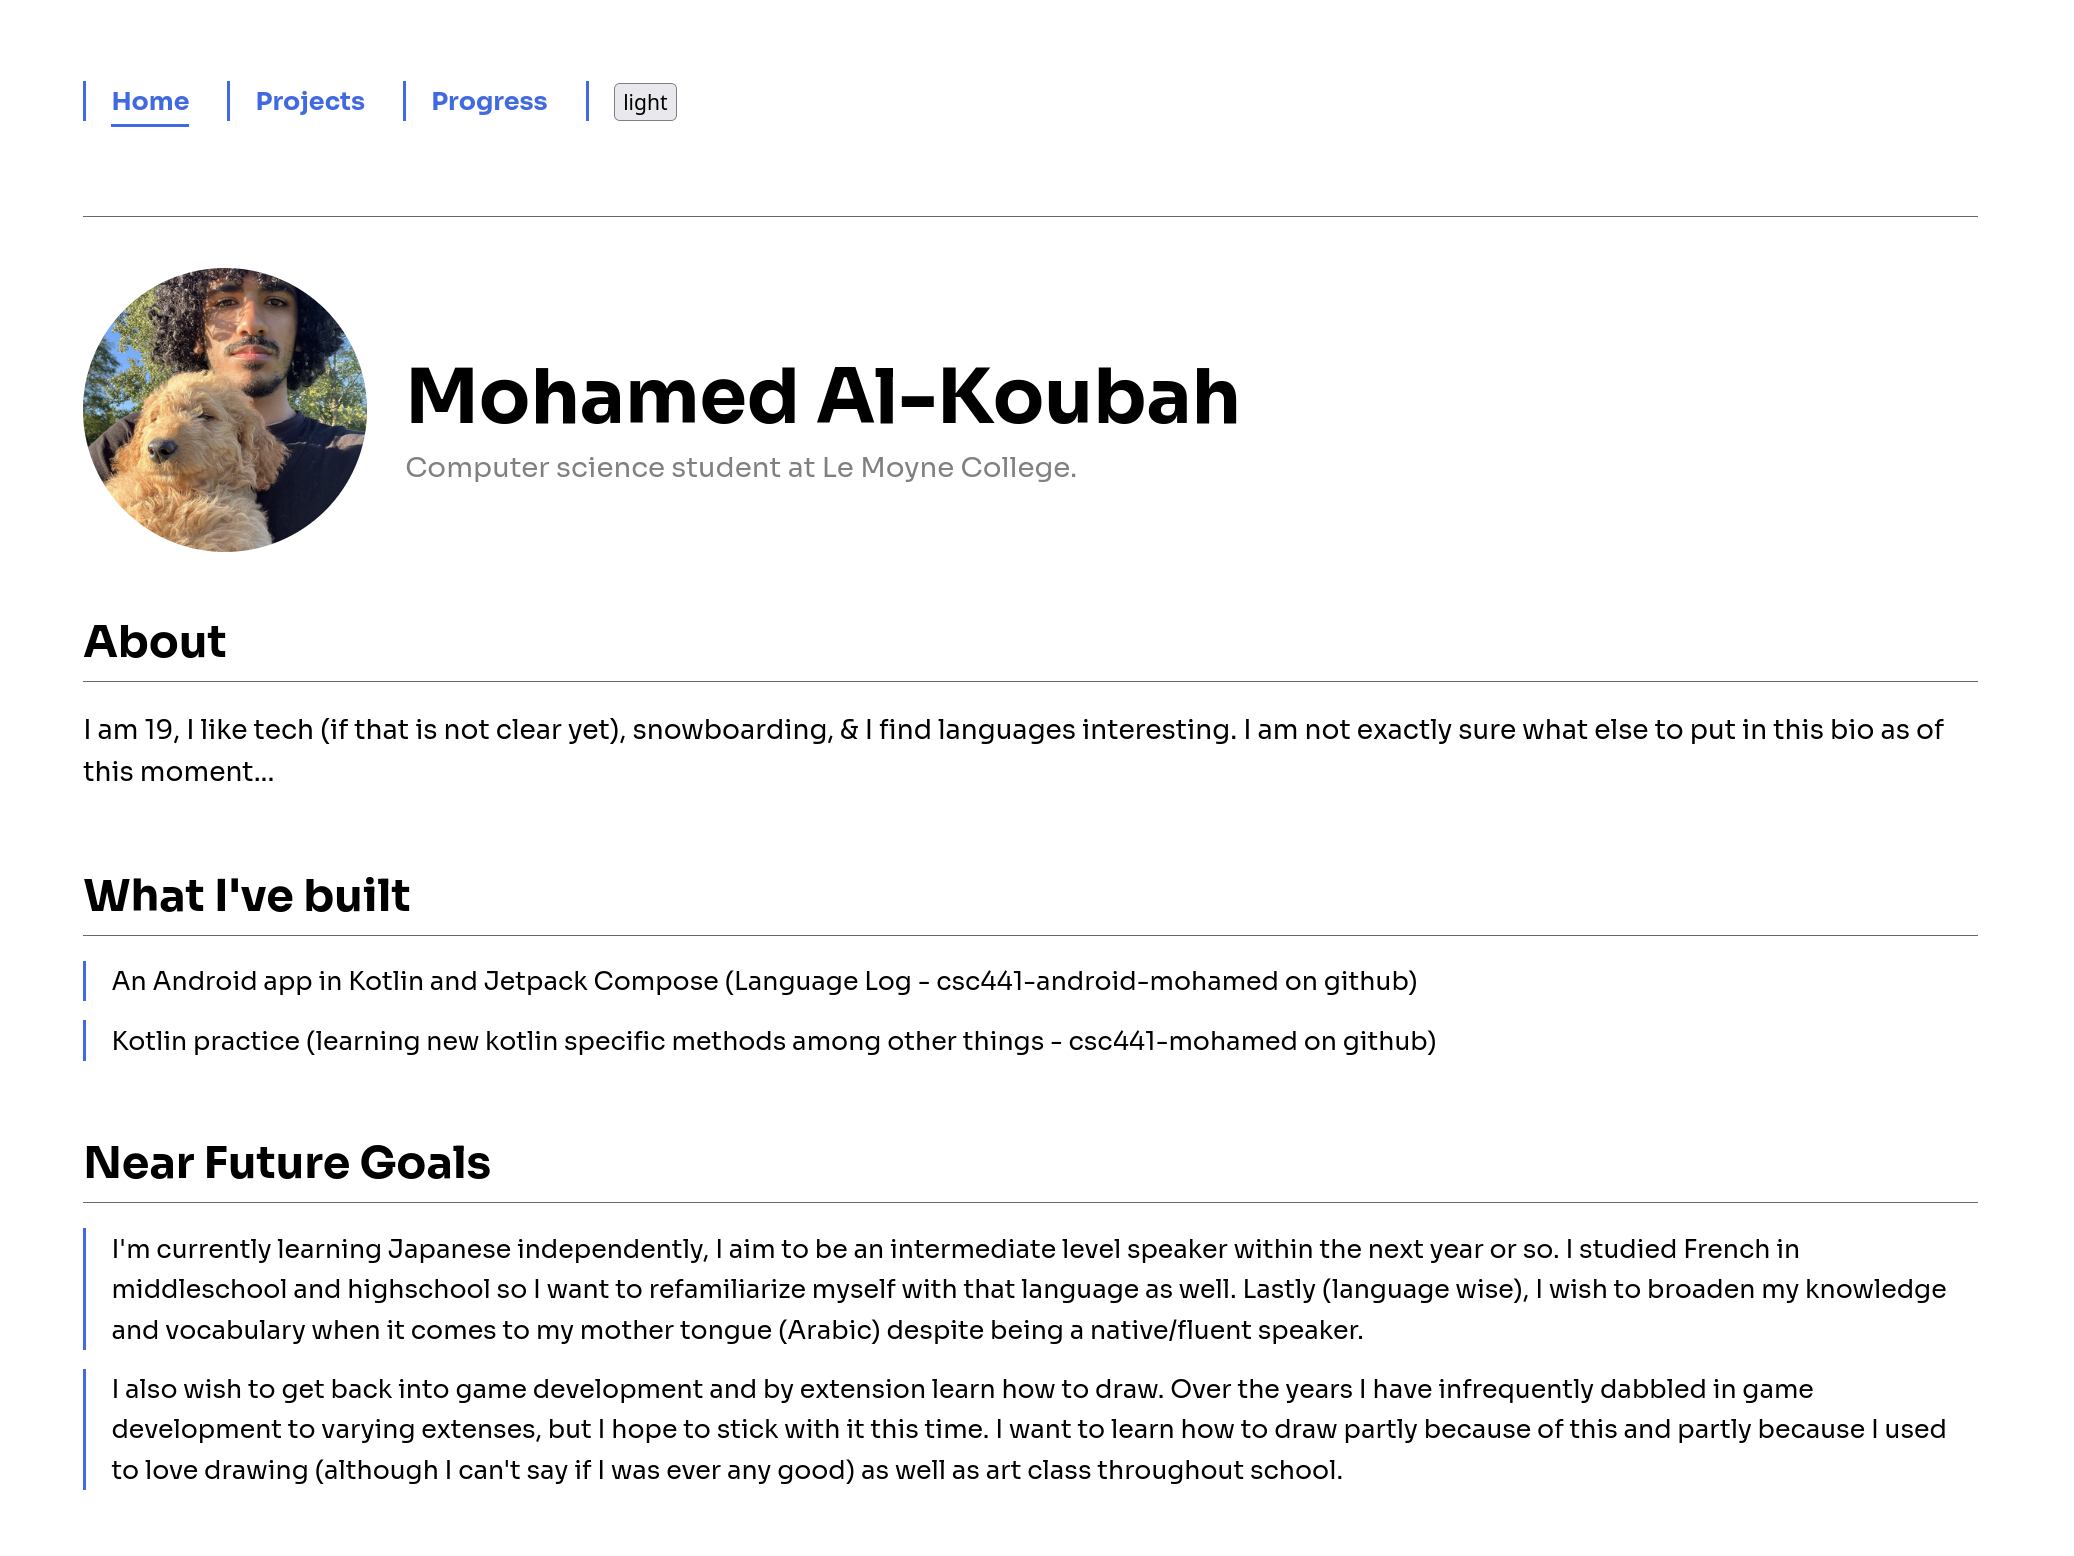
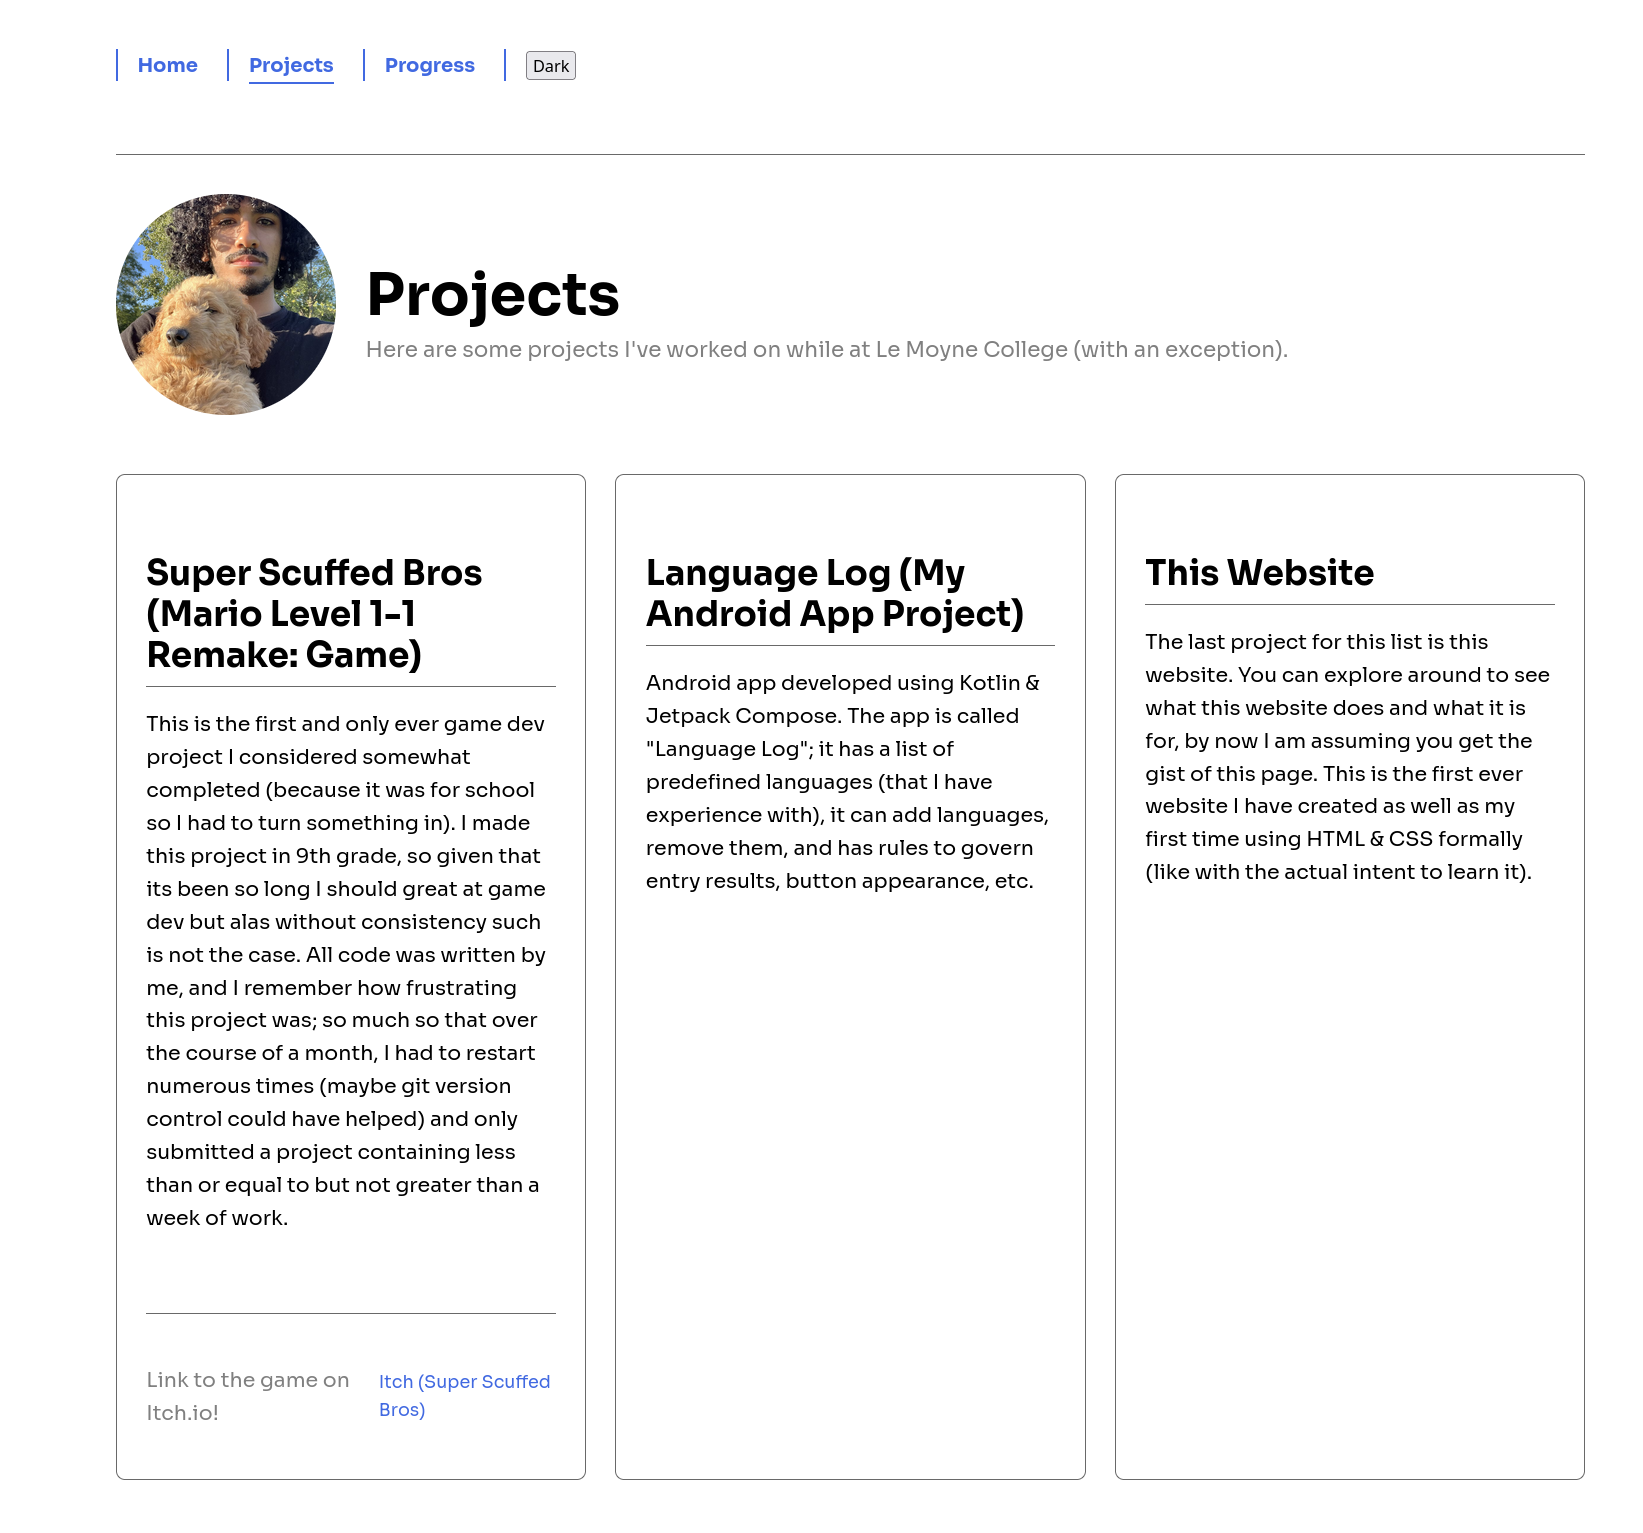
Lab 15 done

diff --git a/projects.html b/projects.html
@@ -6,20 +6,26 @@
          <!-- Class 13 - Step 1: my second page -->
          <title>Projects - Mohamed Al-Koubah</title>
 
+         <!-- Lab 15 - Step 5: one more thing that reacts (dynamic greeting!) -->
+         <span id="greeting"></span> 
+
 
          <!-- Class 12 · Step 1: a typeface I chose -->
          <link rel="preconnect" href="https://fonts.googleapis.com">
          <link rel="preconnect" href="https://fonts.gstatic.com" crossorigin>
          <link href="https://fonts.googleapis.com/css2?family=Sora:wght@100..800&display=swap" rel="stylesheet">
          <link rel="stylesheet" href="styles.css">
+         <!-- Lab 15 · Task 1: my third file -->
+         <script src="script.js" defer></script>
     </head>
     <body>
         <!-- Class 13 - Step 2: navigation -->
          <nav>
             <ul>
-                <li><a href="index.html">Home</a></li>
-                <li><a href="projects.html" class = "current">Projects</a></li>
-                <li><a href="progress.html">Progress</a></li>
+               <li><a href="index.html">Home</a></li>
+               <li><a href="projects.html" class = "current">Projects</a></li>
+               <li><a href="progress.html">Progress</a></li>
+               <li><button id="theme-toggle" type="button">light</button></li>
             </ul>
          </nav>
          <!-- Class 11: Step 2: the page content -->
@@ -57,7 +63,7 @@
          
          <!-- Lab 12 · Task 3: two things in the footer -->
          <footer>
-            <p>© 2026 Mohamed Al-Koubah</p>
+            <p>© <span id="year"></span> Mohamed Al-Koubah</p>
             <!-- Lab 11 · Task 3: a link off my page -->
             <a href="https://github.com/kobadevv" target="_blank" rel="noopener">GitHub</a>
          </footer>

diff --git a/script.js b/script.js
@@ -1,13 +1,42 @@
-// CLass 15 - Step 1: this file is running
+// Class 15 - Step 1: this file is running
 console.log("script.js is running");
 
 // Class 15 - Step 2: put this year in the footer
 const yearSpan = document.querySelector("#year");
-yearSpan.textContent = new Date().getFullYear();
+if (yearSpan) {
+    yearSpan.textContent = new Date().getFullYear();
+}
 
 // Class 15 - Step 3: a button that changes the page
 const themeButton = document.querySelector("#theme-toggle");
+if (themeButton) {
+    // Lab 15 · Task 4: use the saved choice on arrival
+    if (localStorage.getItem("theme") === "light") {
+        document.body.classList.add("light");
+        themeButton.textContent = "Dark";
+    }
+    // Lab 15 · Task 3: the button says what it will do
+    themeButton.addEventListener("click", function () {
+        document.body.classList.toggle("light");
+        if (document.body.classList.contains("light")) {
+            themeButton.textContent = "Dark";
+            localStorage.setItem("theme", "light");
+        } else {
+            themeButton.textContent = "Light";
+            localStorage.setItem("theme", "dark");
+        }
+    });
+}
 
-themeButton.addEventListener("click", function ()  {
-    document.body.classList.toggle("light");
-});
+// Lab 15 - Step 5: one more thing that reacts (dynamic greeting!)
+const currTime = new Date().getHours();
+
+const greeting = document.getElementById("greeting");
+
+if (currentHour < 12) {
+    greeting.textContent = "Good Morning!";
+} else if (currentHour < 18) {
+    greeting.textContent = "Good Afternoon!";
+} else {
+    greeting.textContent = "Good Evening!";
+}

diff --git a/progress.html b/progress.html
@@ -6,11 +6,16 @@
          <!-- Lab 13 - Step 2: my third page -->
          <title>Projects - Mohamed Al-Koubah</title>
 
+         <!-- Lab 15 - Step 5: one more thing that reacts (dynamic greeting!) -->
+         <span id="greeting"></span> 
+
          <!-- Class 12 · Step 1: a typeface I chose -->
          <link rel="preconnect" href="https://fonts.googleapis.com">
          <link rel="preconnect" href="https://fonts.gstatic.com" crossorigin>
          <link href="https://fonts.googleapis.com/css2?family=Sora:wght@100..800&display=swap" rel="stylesheet">
          <link rel="stylesheet" href="styles.css">
+         <!-- Lab 15 · Task 1: my third file -->
+        <script src="script.js" defer></script>
     </head>
     <body>
        <!-- Class 13 - Step 2: navigation -->
@@ -19,6 +24,7 @@
                 <li><a href="index.html">Home</a></li>
                 <li><a href="projects.html">Projects</a></li>
                 <li><a href="progress.html" class = "current">Progress</a></li>
+                <li><button id="theme-toggle" type="button">light</button></li>
             </ul>
          </nav>
          <!-- Class 11: Step 2: the page content -->
@@ -70,7 +76,7 @@
          
          <!-- Lab 12 · Task 3: two things in the footer -->
          <footer>
-            <p>© 2026 Mohamed Al-Koubah</p>
+            <p>© <span id="year"></span> Mohamed Al-Koubah</p>
             <!-- Lab 11 · Task 3: a link off my page -->
             <a href="https://github.com/kobadevv" target="_blank" rel="noopener">GitHub</a>
          </footer>

diff --git a/index.html b/index.html
@@ -1,10 +1,14 @@
 <!DOCTYPE html>
 <html lang = "en">
-   
+   <!-- new Date().getHours() and an if, writing "Good morning" or
+"Good evening" into a <span> in your header -->
     <head>
          <meta charset="UTF-8">
          <meta name="viewport" content="width=device-width, initial-scale=1.0">
          <title>Mohamed Al-Koubah</title>
+
+         <!-- Lab 15 - Step 5: one more thing that reacts (dynamic greeting!) -->
+         <span id="greeting"></span> 
 
          <!-- Class 12 · Step 1: a typeface I chose -->
          <link rel="preconnect" href="https://fonts.googleapis.com">
@@ -21,11 +25,11 @@
        <!-- Class 13 - Step 2: navigation -->
          <nav>
             <ul>
-                <li><a href="index.html" class = "current">Home</a></li>
-                <li><a href="projects.html">Projects</a></li>
-                <li><a href="progress.html">Progress</a></li>
-                <!-- Class 15 - Step 3: the theme button -->
-                 <li><button id="theme-toggle" type="button">light</button></li>
+               <li><a href="index.html" class = "current">Home</a></li>
+               <li><a href="projects.html">Projects</a></li>
+               <li><a href="progress.html">Progress</a></li>
+               <!-- Class 15 - Step 3: the theme button -->
+               <li><button id="theme-toggle" type="button">light</button></li>
             </ul>
          </nav>
          <!-- Class 11: Step 2: the page content -->

diff --git a/NOTES.md b/NOTES.md
@@ -34,3 +34,27 @@ justify-content moves things along the main axis (horizontally by default) while
 hold the wide one, instead of the other way round?
 
 - This is by design as a mobile first or catered toward approach.
+
+## Week 10, Wednesday
+1. In your own words: what is the difference between HTML, CSS and
+JavaScript? One sentence each.
+
+- HTML is a markup language, it is not a programming language, it does compile code but rather from a set of rules displays them. CSS is a styling language and also not a programming language, it is used in conjunction with HTML to style how web pages display. JavaScript is a programming language which means that its main job is to execute instructions, algorithms, and change data.
+
+2. What does `defer` do on the script tag, and what breaks without it?
+
+- defer tells the browser to wait until the HTML has been fully loaded before running our script.js file. Without it the page immediately breaks and tries to interact with parts of the HTML that have not loaded.
+
+3. Light mode changed your whole site with five lines of CSS. Why did
+that work? What would you have had to do without variables?
+
+- It worked because applying a theme class to the body means applying to anything displayed since everything displayed on the page is contained within the body. Without CSS variables, you would have to one by one write new rules to change the values for every individual element of the page.
+
+4. Something went wrong this week and the Console said nothing at all.
+What was it, and how did you eventually find it?
+
+- The error happened when the theme failed to save and stay after refreshing, which showed no red error text in the Console. I eventually found it by running localStorage.getItem("theme") in the Console to see if my click was actually saving the choice. The save was blocked by browser, and it turned out to see it working I had to use the live server page.
+
+5. What is one thing on your page you don't know how to change yet?
+
+- Im not entirely sure how to properly or perfectly fix layout overlaps when using flex-wrap and flex-direction: column on more narrow screens.
